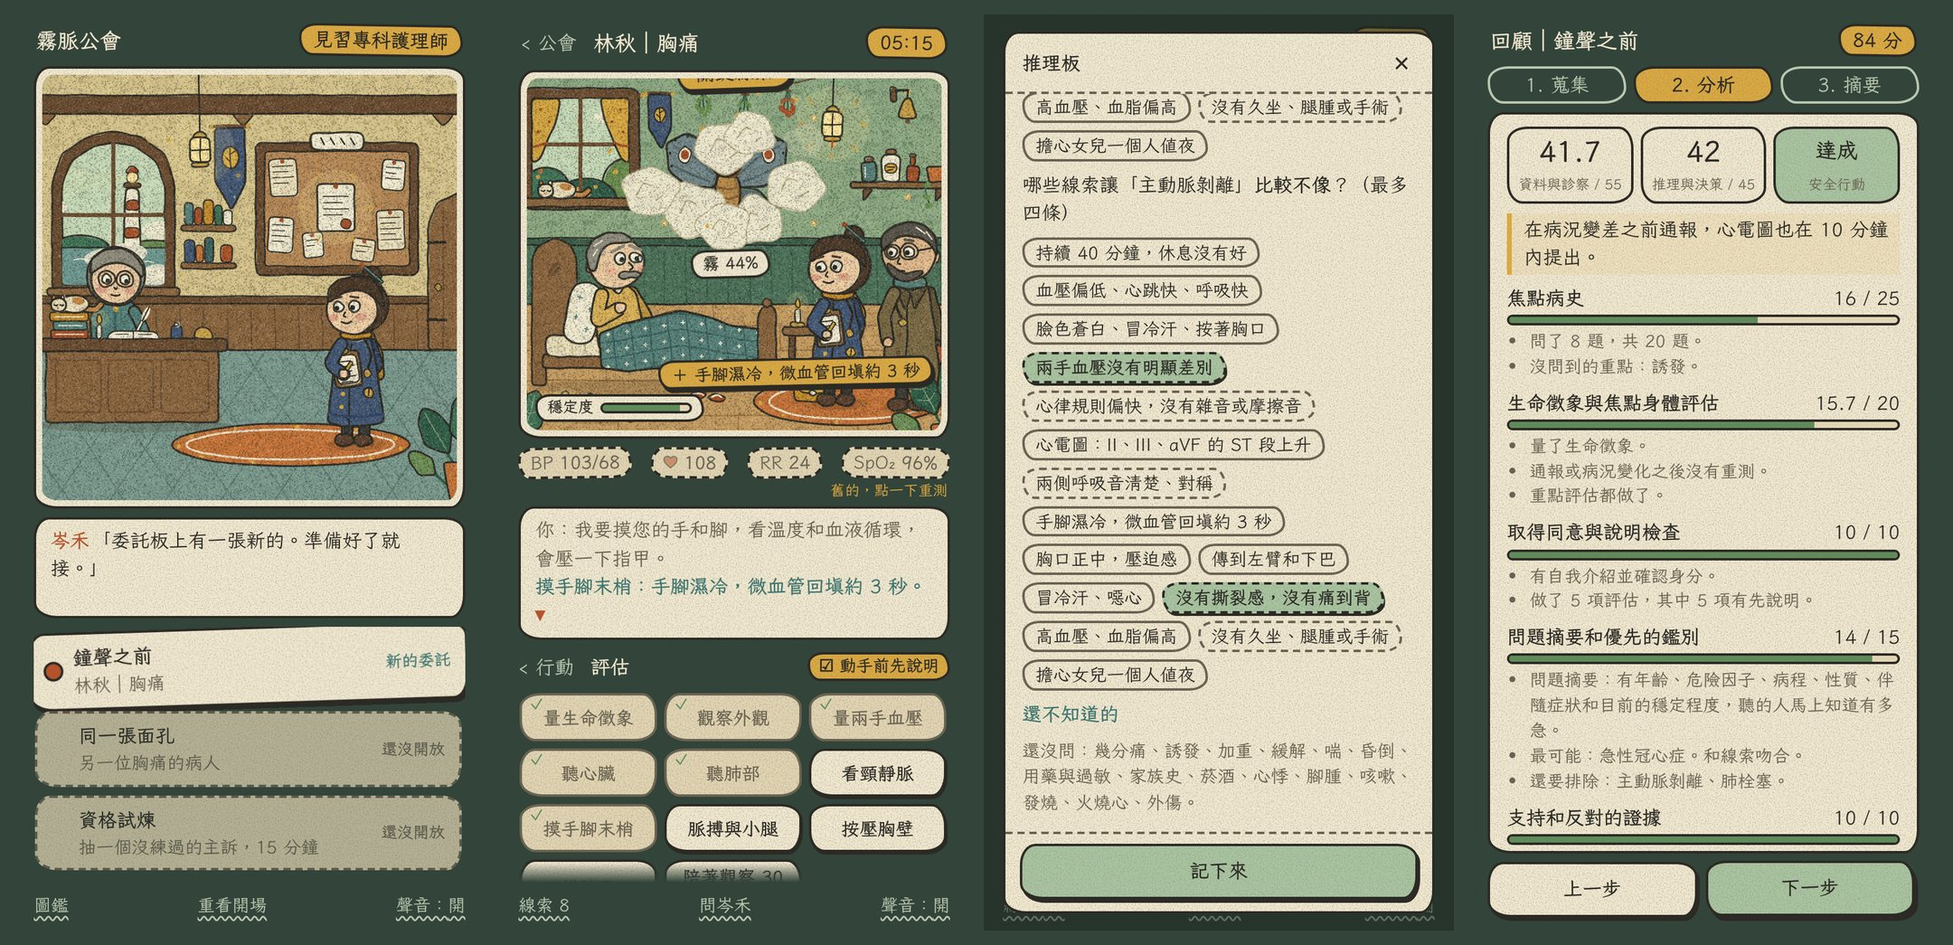
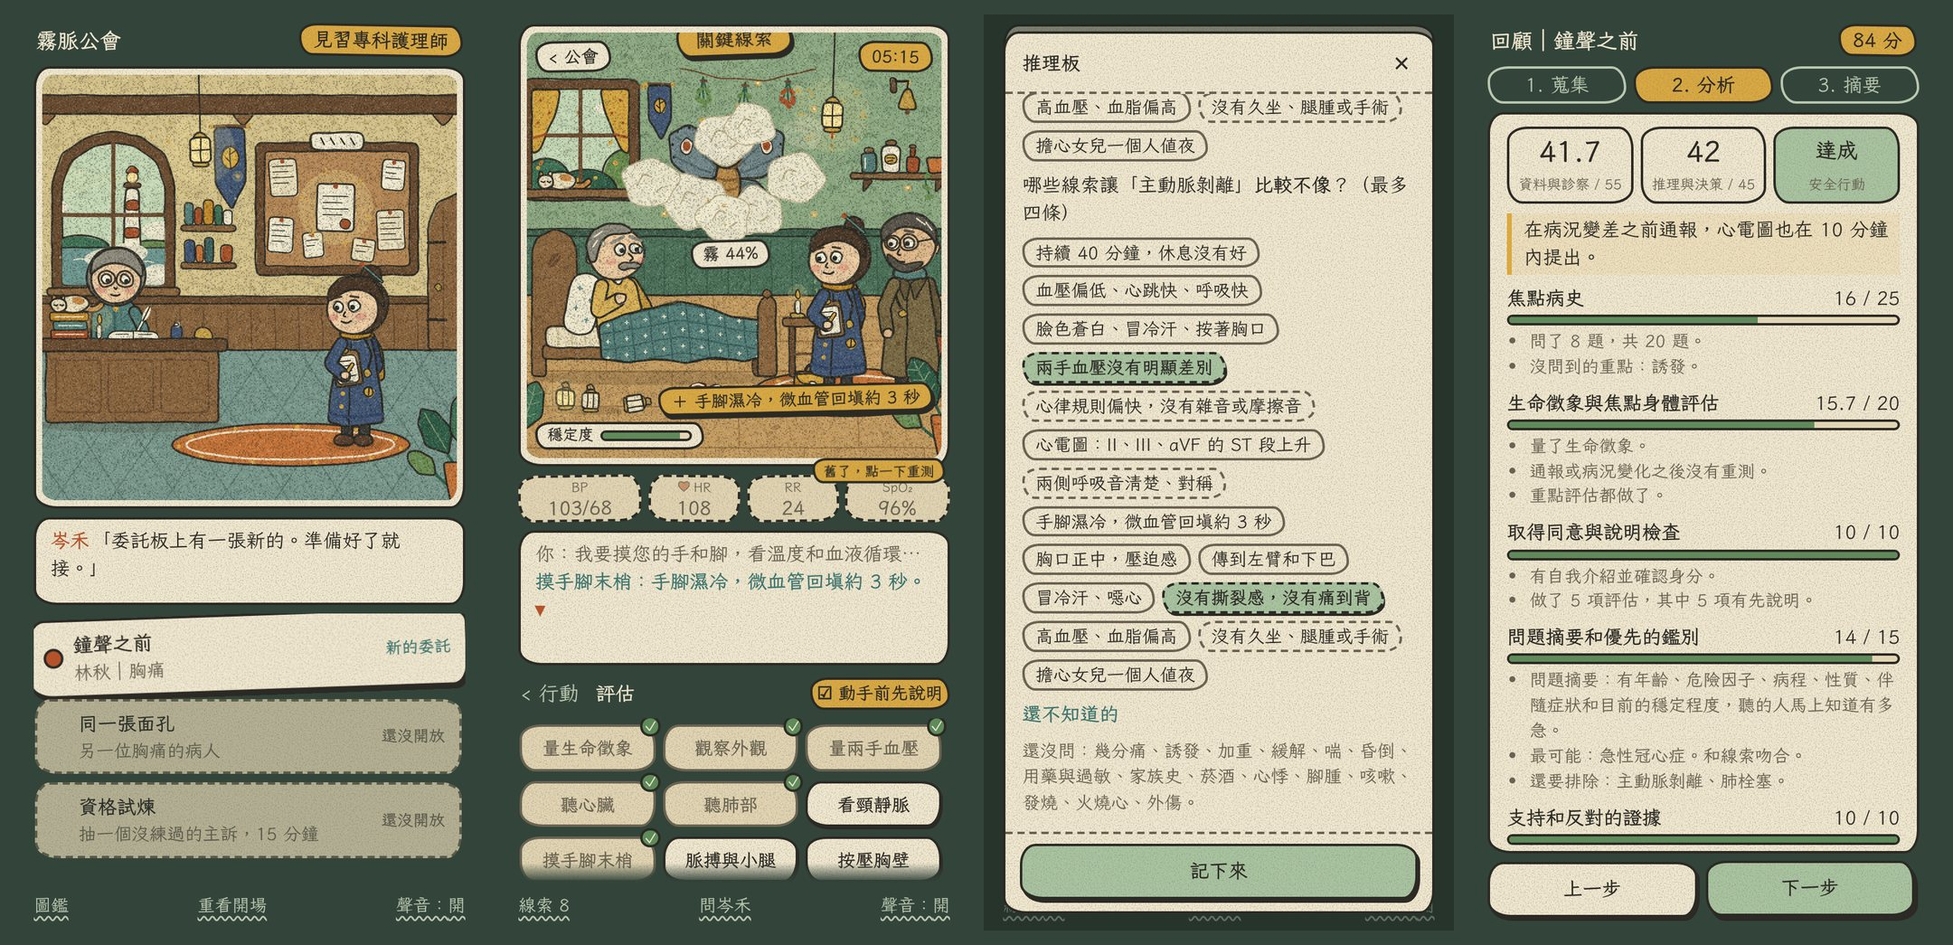
修正手機上文字疊在一起的問題
在真的手機上試玩時，系統字體比較大，三個地方破圖：
分頁標籤疊到標題、打勾疊到選項的字、對話框太矮把問句切掉。

- 病室最上面那一列收進插畫，變成兩張小牌子，多出來的高度給插畫和對話
- 生命徵象改成四張小卡（名稱在上、數字在下），還沒量的時候是一整條提示
- 問診的分頁和返回鍵排成一列等寬，不再擠在標題旁邊
- 做過的選項改用右上角的小圓章，不佔字的位置
- 選項的欄數跟著字的大小變，字大就從三欄變兩欄
- 對話框裡自己問過的話收成一行，捲動時上緣淡出，不會切到半行字
- 行動區固定高度，換分頁時插畫不會跳動

Claude-Session: https://claude.ai/code/session_01WAbUj97tzXA92wFCG624vk

diff --git a/app/src/ui/styles.css b/app/src/ui/styles.css
@@ -53,11 +53,11 @@ body {
 .back { flex: none; background: none; border: 0; padding: 4px 6px 4px 0; cursor: pointer; color: var(--on-page-soft); white-space: nowrap; }
 
 /* ── 插畫 ── */
-.scene { position: relative; flex: 3 1 0; min-height: 150px; max-height: min(94vw, 420px); padding: 5px; overflow: hidden; }
+.scene { position: relative; flex: 1000 1 0; min-height: 150px; max-height: min(94vw, 420px); padding: 5px; overflow: hidden; }
 .scene .frame { position: relative; width: 100%; height: 100%; border-radius: 9px 12px 8px 13px / 12px 8px 13px 9px; overflow: hidden; background: #8fab89; }
 .scene canvas { display: block; width: 100%; height: 100%; }
 .banner {
-  position: absolute; left: 50%; top: 10px; transform: translate(-50%, -64px) rotate(-2deg); white-space: nowrap;
+  position: absolute; left: 50%; top: 2.6em; transform: translate(-50%, -7em) rotate(-2deg); white-space: nowrap; max-width: calc(100% - 16px); overflow: hidden; text-overflow: ellipsis; z-index: 1;
   background: var(--grain), var(--ochre); color: var(--ink); border: 2px solid var(--ink); border-radius: var(--r-b); padding: 1px 14px; font-weight: 700;
   box-shadow: 2px 3px 0 var(--ink); transition: transform 0.32s cubic-bezier(0.3, 1.5, 0.5, 1);
 }
@@ -69,6 +69,9 @@ body {
 }
 .bubble::after { content: ""; position: absolute; left: 50%; bottom: -7px; width: 9px; height: 9px; background: var(--paper); border-right: 2px solid var(--ink); border-bottom: 2px solid var(--ink); transform: translateX(-50%) rotate(45deg); }
 @keyframes bob { to { margin-top: -3px; } }
+.tag { position: absolute; top: 7px; background: var(--grain), var(--paper); color: var(--ink); border: 2px solid var(--ink); border-radius: var(--r-b); padding: 0 9px; font-size: 0.9em; font-weight: 700; line-height: 1.5; white-space: nowrap; }
+.tag-back { left: 7px; cursor: pointer; transform: rotate(-1deg); }
+.tag-clock { right: 7px; background: var(--grain), var(--ochre); font-variant-numeric: tabular-nums; transform: rotate(1deg); }
 .veil.named { background: var(--grain), var(--ochre); }
 .veil { position: absolute; left: 50%; top: 50%; white-space: nowrap; background: var(--grain), var(--paper); border: 2px solid var(--ink); border-radius: var(--r-b); padding: 0 8px; font-size: 0.86em; font-weight: 700; font-variant-numeric: tabular-nums; transform: translate(-50%, 0) rotate(-1.5deg); pointer-events: none; }
 /* 剛拿到的線索：像蓋章一樣跳出來，停一下再淡掉 */
@@ -81,24 +84,29 @@ body {
 .stab.low i b { background: var(--rust); }
 .stab.low { animation: alarm 0.5s ease-in-out 3; }
 
-/* ── 生命徵象：整列是一顆按鈕，點一下就量 ── */
-.vitals { flex: none; display: flex; flex-wrap: wrap; justify-content: space-between; align-items: center; gap: 2px 6px; background: none; border: 0; padding: 0; margin: 0; cursor: pointer; font-variant-numeric: tabular-nums; text-align: left; }
-.vitals span { background: var(--grain), var(--paper); border: 2px solid var(--ink); border-radius: var(--r-b); padding: 0 8px; white-space: nowrap; font-weight: 700; font-size: 0.94em; transition: opacity 0.3s; }
+/* ── 生命徵象：整列是一顆按鈕，點一下就量。四張小卡，名稱在上、數字在下，字放大也不會擠到換行 ── */
+.vitals { position: relative; flex: none; display: grid; grid-template-columns: 1.35fr 1fr 1fr 1.15fr; gap: 6px; background: none; border: 0; padding: 0; margin: 0; cursor: pointer; font-variant-numeric: tabular-nums; text-align: center; }
+.vitals:disabled { cursor: default; }
+.vitals span { min-width: 0; display: flex; flex-direction: column; align-items: center; background: var(--grain), var(--paper); color: var(--ink); border: 2px solid var(--ink); border-radius: var(--r-b); padding: 1px 2px 0; white-space: nowrap; font-weight: 700; line-height: 1.25; transition: opacity 0.3s; }
 .vitals span:nth-child(odd) { transform: rotate(-0.8deg); }
 .vitals span:nth-child(even) { transform: rotate(0.7deg); border-radius: var(--r-a); }
-.vitals span b { font-weight: 400; color: var(--ink-soft); margin-right: 5px; }
-.vitals em { flex: 1 0 100%; font-style: normal; font-size: 0.76em; line-height: 1.2; color: var(--on-page-soft); text-align: right; padding-right: 2px; }
-.vitals.unknown span, .vitals.stale span { border-style: dashed; background: var(--grain), var(--paper-2); color: var(--ink-soft); }
-.vitals.unknown em, .vitals.stale em { color: var(--ochre); }
-.vitals .heart { display: inline-block; width: 0.82em; height: 0.74em; margin-right: 5px; color: var(--rust); animation: beat 0.56s ease-out infinite; vertical-align: -0.02em; }
-.vitals.unknown .heart, .vitals.stale .heart { animation: none; opacity: 0.5; }
+.vitals span b { font-weight: 400; font-size: 0.68em; color: var(--ink-soft); line-height: 1.3; }
+.vitals em { position: absolute; right: 4px; top: -1.15em; z-index: 1; font-style: normal; font-size: 0.72em; font-weight: 700; line-height: 1.5; background: var(--grain), var(--ochre); color: var(--ink); border: 2px solid var(--ink); border-radius: var(--r-b); padding: 0 7px; transform: rotate(2deg); animation: hint 1.8s ease-in-out infinite; }
+.vitals.stale span { border-style: dashed; background: var(--grain), var(--paper-2); color: var(--ink-soft); }
+.vitals.unknown { grid-template-columns: 1fr; }
+.vitals.unknown span { border-style: dashed; background: var(--grain), var(--paper-2); color: var(--ink-soft); transform: none; padding: 2px 8px 1px; white-space: normal; }
+.vitals.unknown span b { font-size: 0.8em; font-weight: 700; color: var(--rust); }
+.vitals .heart { display: inline-block; width: 0.95em; height: 0.86em; margin-right: 3px; color: var(--rust); animation: beat 0.56s ease-out infinite; vertical-align: -0.05em; }
+.vitals.stale .heart { animation: none; opacity: 0.5; }
 .vitals .heart svg { display: block; width: 100%; height: 100%; }
 @keyframes beat { 0% { transform: scale(1.35); } 35% { transform: scale(1); } 100% { transform: scale(1); } }
 @keyframes alarm { 50% { transform: scale(1.06) rotate(-2deg); } }
 
 /* ── 對話 ── */
-.talk { flex: 0 0 auto; height: clamp(74px, 14.5vh, 118px); overflow-y: auto; padding: 6px 12px; cursor: pointer; }
-.hall .talk { flex: 0 0 auto; height: auto; min-height: 84px; max-height: 132px; }
+.talk { flex: 1 1 calc(4.35em + 16px); min-height: calc(4.35em + 16px); max-height: 9.5em; overflow-y: auto; padding: 6px 12px; cursor: pointer; }
+.talk.scrolled { -webkit-mask-image: linear-gradient(transparent, #000 1.3em); mask-image: linear-gradient(transparent, #000 1.3em); }
+.talk .past { white-space: nowrap; overflow: hidden; text-overflow: ellipsis; }
+.hall .talk { flex: 0 0 auto; min-height: 4.6em; max-height: 8.5em; }
 .talk .you { color: var(--ink-soft); }
 .talk .sys { color: var(--teal); font-weight: 700; }
 .talk .sys.bad { color: var(--rust); }
@@ -106,8 +114,9 @@ body {
 @keyframes more { to { transform: translateY(3px); } }
 
 /* ── 行動 ── */
-.panel { flex: 2 1 0; min-height: 104px; display: flex; flex-direction: column; min-width: 0; }
+.panel { flex: none; height: calc(9.3em + 24px); display: flex; flex-direction: column; min-width: 0; }
 .acts { display: grid; grid-template-columns: repeat(3, minmax(0, 1fr)); gap: 8px; padding: 0 3px 3px 0; margin: auto 0; }
+.panel > .acts .act { min-height: 3.1em; }
 .acts.one { grid-template-columns: 1fr; justify-items: center; }
 .acts.one .act { width: 100%; }
 .acts.two, .two { display: grid; grid-template-columns: 1fr 1fr; gap: 8px; padding: 0 3px 3px 0; }
@@ -130,15 +139,16 @@ button.act.hint, .quest.hint { animation: hint 1.8s ease-in-out infinite; }
 /* 點開一種行動之後的選單 */
 .sub { flex: 1; min-height: 0; display: flex; flex-direction: column; gap: 5px; animation: rise 0.18s ease-out; }
 @keyframes rise { from { transform: translateY(8px); opacity: 0; } }
-.sub-top { flex: none; display: flex; align-items: center; gap: 8px; color: var(--on-page); min-width: 0; }
-.sub-top > b { flex: none; }
-.tabs { flex: 1; display: flex; justify-content: flex-end; gap: 4px; min-width: 0; }
-.tabs button, .toggle { background: none; border: 2px solid var(--on-page-soft); border-radius: var(--r-b); color: var(--on-page-soft); padding: 0 7px; font-size: 0.86em; cursor: pointer; white-space: nowrap; }
+.sub-top { flex: none; display: flex; align-items: center; gap: 6px; color: var(--on-page); min-width: 0; min-height: 2em; }
+.sub-top > b { flex: 0 1 auto; min-width: 0; overflow: hidden; text-overflow: ellipsis; white-space: nowrap; }
+.sub-top .back { padding: 2px 8px 2px 2px; font-size: 1.05em; }
+.tabs { flex: 1; display: grid; grid-template-columns: repeat(4, minmax(0, 1fr)); gap: 5px; min-width: 0; }
+.tabs button, .toggle { background: none; border: 2px solid var(--on-page-soft); border-radius: var(--r-b); color: var(--on-page-soft); padding: 1px 4px; font-size: 0.9em; cursor: pointer; white-space: nowrap; overflow: hidden; }
 .tabs button.on, .toggle.on { background: var(--grain), var(--ochre); border-color: var(--ink); color: var(--ink); font-weight: 700; }
-.toggle { margin-left: auto; }
-.opts { flex: 1; min-height: 0; overflow-y: auto; display: grid; grid-template-columns: repeat(auto-fill, minmax(104px, 1fr)); grid-auto-rows: min-content; gap: 6px; padding: 1px 3px 14px 1px; align-content: start; -webkit-mask-image: linear-gradient(#000 calc(100% - 16px), transparent); mask-image: linear-gradient(#000 calc(100% - 16px), transparent); }
+.toggle { margin-left: auto; flex: 0 1 auto; min-width: 0; text-overflow: ellipsis; }
+.opts { flex: 1; min-height: 0; overflow-y: auto; display: grid; grid-template-columns: repeat(auto-fill, minmax(6.3em, 1fr)); grid-auto-rows: min-content; gap: 8px 6px; padding: 11px 7px 14px 1px; align-content: start; -webkit-mask-image: linear-gradient(#000 calc(100% - 16px), transparent); mask-image: linear-gradient(#000 calc(100% - 16px), transparent); }
 .opt {
-  min-height: 40px; padding: 3px 6px; font-size: 0.94em; font-weight: 700; line-height: 1.2; text-align: center; cursor: pointer;
+  min-height: 2.55em; padding: 3px 5px; font-size: 0.94em; font-weight: 700; line-height: 1.2; text-align: center; cursor: pointer; color: var(--ink); overflow-wrap: anywhere;
   background: var(--grain), var(--paper); border: 2px solid var(--ink); border-radius: var(--r-b); box-shadow: 1px 2px 0 var(--ink); transition: transform 0.08s, box-shadow 0.08s;
 }
 .opt:nth-child(even) { border-radius: var(--r-a); }
@@ -147,8 +157,8 @@ button.act.hint, .quest.hint { animation: hint 1.8s ease-in-out infinite; }
 .opt.wait { background: var(--grain), var(--sage-2); }
 .opt.urgent:not(.done) { background: var(--grain), var(--rust); color: var(--paper); }
 .opt { position: relative; }
-.opt i { position: absolute; left: 6px; top: 0; font-style: normal; font-size: 0.8em; color: var(--moss); }
-.opt.wait i { left: auto; right: 7px; color: var(--ink); }
+.opt i { position: absolute; right: -6px; top: -9px; width: 1.5em; height: 1.5em; display: grid; place-items: center; font-style: normal; font-size: 0.72em; line-height: 1; background: var(--moss); color: var(--paper); border: 2px solid var(--ink); border-radius: 50%; }
+.opt.wait i { background: var(--ochre); color: var(--ink); }
 
 .foot { flex: none; display: flex; justify-content: space-between; gap: 12px; color: var(--on-page-soft); font-size: 0.9em; }
 .foot button { background: none; border: 0; padding: 2px 0; cursor: pointer; text-decoration: underline wavy; text-underline-offset: 3px; }
@@ -189,7 +199,7 @@ button.act.hint, .quest.hint { animation: hint 1.8s ease-in-out infinite; }
 .quest .seal { position: absolute; left: 10px; top: 50%; width: 16px; height: 16px; margin-top: -8px; border-radius: 50%; background: var(--rust); border: 2px solid var(--ink); }
 .quest.locked { cursor: default; border-style: dashed; border-color: var(--ink-soft); background: var(--grain), var(--paper-2); box-shadow: none; opacity: 0.75; }
 .quest.locked em { color: var(--ink-soft); }
-.hall .panel { flex: 1 1 0; }
+.hall .panel { flex: 1 1 0; height: auto; min-height: 0; }
 .hall .scene { flex: 4 1 0; }
 .hall .acts.one { margin: 0; }
 
@@ -222,14 +232,16 @@ sup { font-size: 0.7em; }
   .left { flex: 1.25 1 0; }
   .right { flex: 1 1 0; }
   .scene { max-height: none; }
-  .talk, .hall .talk { height: auto; flex: 2 1 0; max-height: none; }
+  .talk, .hall .talk { flex: 1 1 0; max-height: none; }
+  .panel { height: auto; flex: 0 0 auto; max-height: 62%; }
+  .opts { max-height: 8.6em; }
   .debrief { max-width: 720px; margin: 0 auto; }
   .sheet { left: auto; width: min(100%, 520px); }
 }
 
 @media (prefers-reduced-motion: reduce) {
   .banner, button.act, .opt, .stab i b { transition: none; }
-  .vitals .heart, .bubble, .talk .more, button.act.hint, .quest.hint, .sub, .sheet, .stab.low { animation: none; }
+  .vitals .heart, .vitals em, .bubble, .talk .more, button.act.hint, .quest.hint, .sub, .sheet, .stab.low { animation: none; }
   .gain { animation: gain-still 2.4s forwards; }
   @keyframes gain-still { 0%, 85% { opacity: 1; } 100% { opacity: 0; } }
 }

diff --git a/app/src/ui/Ward.tsx b/app/src/ui/Ward.tsx
@@ -10,17 +10,17 @@ import { buzz, sfx, sound } from './sound.ts';
 
 type Panel = 'main' | 'ask' | 'assess' | 'tests' | 'call' | 'close';
 type SheetName = null | 'board' | 'report' | 'explain' | 'clues' | 'confirm' | 'quit';
-const GROUPS: [QuestionGroup, string][] = [['open', '開場'], ['cc', '主訴'], ['hx', '病史'], ['ros', '系統回顧']];
+const GROUPS: [QuestionGroup, string][] = [['open', '開場'], ['cc', '主訴'], ['hx', '病史'], ['ros', '系統']];
 const HEART = <svg viewBox="0 0 22 20" aria-hidden="true"><path fill="currentColor" stroke="#2c2a25" strokeWidth="2" strokeLinejoin="round" d="M11 18.5C4.5 13.6 1.3 10.2 1.3 6.5 1.3 3.6 3.5 1.5 6.2 1.5c1.9 0 3.6 1 4.8 2.7 1.2-1.7 2.9-2.7 4.8-2.7 2.7 0 4.9 2.1 4.9 5 0 3.7-3.2 7.1-9.7 12z" /></svg>;
 const mmss = (t: number) => String(Math.floor(t / 60)).padStart(2, '0') + ':' + String(t % 60).padStart(2, '0');
 
 function Opt({ done, wait, onClick, children, cls = '' }: { done?: boolean; wait?: boolean; onClick(): void; children: ReactNode; cls?: string }) {
-  return <button type="button" className={'opt ' + cls + (done ? ' done' : '') + (wait ? ' wait' : '')} onClick={onClick}>{done && <i aria-hidden="true">✓</i>}{children}{wait && <i aria-hidden="true">…</i>}</button>;
+  return <button type="button" className={'opt ' + cls + (done ? ' done' : '') + (wait ? ' wait' : '')} onClick={onClick}>{children}{done && <i aria-hidden="true">✓</i>}{wait && <i aria-hidden="true">…</i>}</button>;
 }
-function Sub({ title, children, extra, onBack }: { title: string; children: ReactNode; extra?: ReactNode; onBack(): void }) {
+function Sub({ title, children, extra, onBack }: { title?: string; children: ReactNode; extra?: ReactNode; onBack(): void }) {
   return (
     <div className="sub">
-      <div className="sub-top"><button type="button" className="back" onClick={onBack}>‹ 行動</button><b>{title}</b>{extra}</div>
+      <div className="sub-top"><button type="button" className="back" onClick={onBack} aria-label="回到行動">‹{title ? ' 行動' : ''}</button>{title && <b>{title}</b>}{extra}</div>
       <div className="opts">{children}</div>
     </div>
   );
@@ -112,25 +112,26 @@ export function Ward({ c, takeaway, onDone, onQuit }: Props) {
   return (
     <div className="screen ward">
       <div className="left">
-        <div className="top">
-          <button type="button" className="back" onClick={() => (closed ? onDone(session) : setSheet('quit'))}>‹ 公會</button>
-          <span className="who">{c.patient.name}｜{c.complaint}</span>
-          <span className="clock" aria-label={'已經過了 ' + mmss(session.time)}>{mmss(session.time)}</span>
-        </div>
         <Stage kind="ward" stage={stage} onFrame={onFrame} label="霧脈公會的病室：林秋坐在床上按著胸口，岑禾拿著紀錄板站在旁邊，房間中間飄著被霧裹住的症影">
+          <button type="button" className="tag tag-back" onClick={() => (closed ? onDone(session) : setSheet('quit'))}>‹ 公會</button>
+          <span className="tag tag-clock" aria-label={'已經過了 ' + mmss(session.time)}>{mmss(session.time)}</span>
           <div className="bubble" ref={bubble} hidden>…</div>
           <div className="veil" ref={veilTag} />
           <div className={'banner' + (banner.show ? ' show' : '') + (banner.bad ? ' bad' : '')} role="status">{banner.text}</div>
           {gain && <div key={gain.n} className={'gain' + (gain.key ? ' key' : '')}>＋ {gain.text}</div>}
           <div className={'stab' + (stab < 40 ? ' low' : '')} aria-label={'穩定度 ' + stab}><span>穩定度</span><i><b style={{ width: stab + '%' }} /></i></div>
         </Stage>
-        <button type="button" className={'vitals' + (v ? '' : ' unknown') + (stale ? ' stale' : '')} onClick={() => !closed && act({ type: 'vitals' })} aria-label={v ? '生命徵象，點一下重測' : '還沒量生命徵象，點一下測量'}>
-          <span><b>BP</b>{v ? v.v.bp : '？'}</span>
-          <span><i className="heart" style={{ animationDuration: (60 / (v ? v.v.hr : 60)).toFixed(2) + 's' }}>{HEART}</i>{v ? v.v.hr : '？'}</span>
-          <span><b>RR</b>{v ? v.v.rr : '？'}</span>
-          <span><b>SpO₂</b>{v ? v.v.spo2 + '%' : '？'}</span>
-          <em>{closed ? '' : v ? (stale ? '舊的，點一下重測' : Math.max(0, Math.round((session.time - v.at) / 60)) + ' 分鐘前量的') : '還沒量，點一下測量'}</em>
-        </button>
+        {v ? (
+          <button type="button" className={'vitals' + (stale && !closed ? ' stale' : '')} disabled={closed} onClick={() => act({ type: 'vitals' })} aria-label={'生命徵象：血壓 ' + v.v.bp + '、心跳 ' + v.v.hr + '、呼吸 ' + v.v.rr + '、血氧 ' + v.v.spo2 + '%。點一下重測'}>
+            <span><b>BP</b>{v.v.bp}</span>
+            <span><b><i className="heart" style={{ animationDuration: (60 / v.v.hr).toFixed(2) + 's' }}>{HEART}</i>HR</b>{v.v.hr}</span>
+            <span><b>RR</b>{v.v.rr}</span>
+            <span><b>SpO₂</b>{v.v.spo2}%</span>
+            {stale && !closed && <em>舊了，點一下重測</em>}
+          </button>
+        ) : (
+          <button type="button" className="vitals unknown" disabled={closed} onClick={() => act({ type: 'vitals' })}><span>生命徵象還沒量<b>點一下測量</b></span></button>
+        )}
       </div>
 
       <div className="right">
@@ -148,7 +149,7 @@ export function Ward({ c, takeaway, onDone, onQuit }: Props) {
               <button type="button" className="act" onClick={() => open('close')}>說明</button>
             </div>
           ) : panel === 'ask' ? (
-            <Sub onBack={back} title="問診" extra={<span className="tabs">{GROUPS.map(([g, name]) => <button key={g} type="button" className={g === group ? 'on' : ''} onClick={() => { sfx.tap(); setGroup(g); }}>{name}</button>)}</span>}>
+            <Sub onBack={back} extra={<span className="tabs">{GROUPS.map(([g, name]) => <button key={g} type="button" className={g === group ? 'on' : ''} onClick={() => { sfx.tap(); setGroup(g); }}>{name}</button>)}</span>}>
               {c.questions.filter((q) => q.group === group).map((q) => <Opt key={q.id} done={session.asked.includes(q.id)} onClick={() => act({ type: 'ask', id: q.id })}>{q.label}</Opt>)}
             </Sub>
           ) : panel === 'assess' ? (

diff --git a/app/src/ui/Talk.tsx b/app/src/ui/Talk.tsx
@@ -44,16 +44,17 @@ export const Talk = forwardRef<TalkHandle, Props>(function Talk({ onSpeaker, onT
     busy: () => !st.current.over,
   }));
   useEffect(() => () => window.clearTimeout(st.current.timer), []);
-  useEffect(() => { if (box.current) box.current.scrollTop = box.current.scrollHeight; });
+  useEffect(() => { const b = box.current; if (!b) return; b.scrollTop = b.scrollHeight; b.classList.toggle('scrolled', b.scrollTop > 2); });
 
   const s = st.current;
   return (
-    <div className="paper talk" ref={box} aria-live="polite" onClick={() => { if (!s.over) finish(); else onTap?.(); }}>
+    <div className="paper talk" ref={box} aria-live="polite" onScroll={(e) => e.currentTarget.classList.toggle('scrolled', e.currentTarget.scrollTop > 2)} onClick={() => { if (!s.over) finish(); else onTap?.(); }}>
       {s.lines.map((ln, i) => {
         if (i > s.li) return null;
         const text = i < s.li ? ln.text : ln.text.slice(0, s.ci), name = NAMES[ln.who];
         const tail = s.over && more && i === s.lines.length - 1 ? <span className="more" aria-hidden="true"> ▾</span> : null;
-        if (ln.who === 'you') return <p key={i} className="you">你：{text}{tail}</p>;
+        // 自己說過的話，等對方開口之後收成一行
+        if (ln.who === 'you') return <p key={i} className={'you' + (i < s.li && i < s.lines.length - 1 ? ' past' : '')}>你：{text}{tail}</p>;
         if (ln.who === 'sys') return <p key={i} className={'sys' + (ln.bad ? ' bad' : '')}>{text}{tail}</p>;
         return <p key={i}><b className="name">{name}</b>「{text}{i < s.li ? '」' : ''}{tail}</p>;
       })}

diff --git a/app/README.md b/app/README.md
@@ -73,7 +73,7 @@ src/
 
 - **病例還沒經過臨床老師審查，不能當教材。** 時間限制、分數的權重、哪些算安全行動，都是我依指引先訂的草稿。
 - 畫是用程式畫的，角色、房間和構圖都是為這個專案重新設計的。
-- 只在電腦上的模擬手機視窗測過（390×760、375×600、844×390），沒有在真的手機上測。
+- 在真的手機上試過一次：系統字體調大的時候文字會疊在一起、對話被切掉。已經把版面改成跟著字的大小伸縮，並在模擬手機上用字放大 1.25 倍重測過（385×700、390×760、375×600、844×390）；改完之後還沒有在真的手機上再確認。
 - 遊戲的分數是訓練用的，不代表正式甄審的成績。
 
 ## 病例的出處
